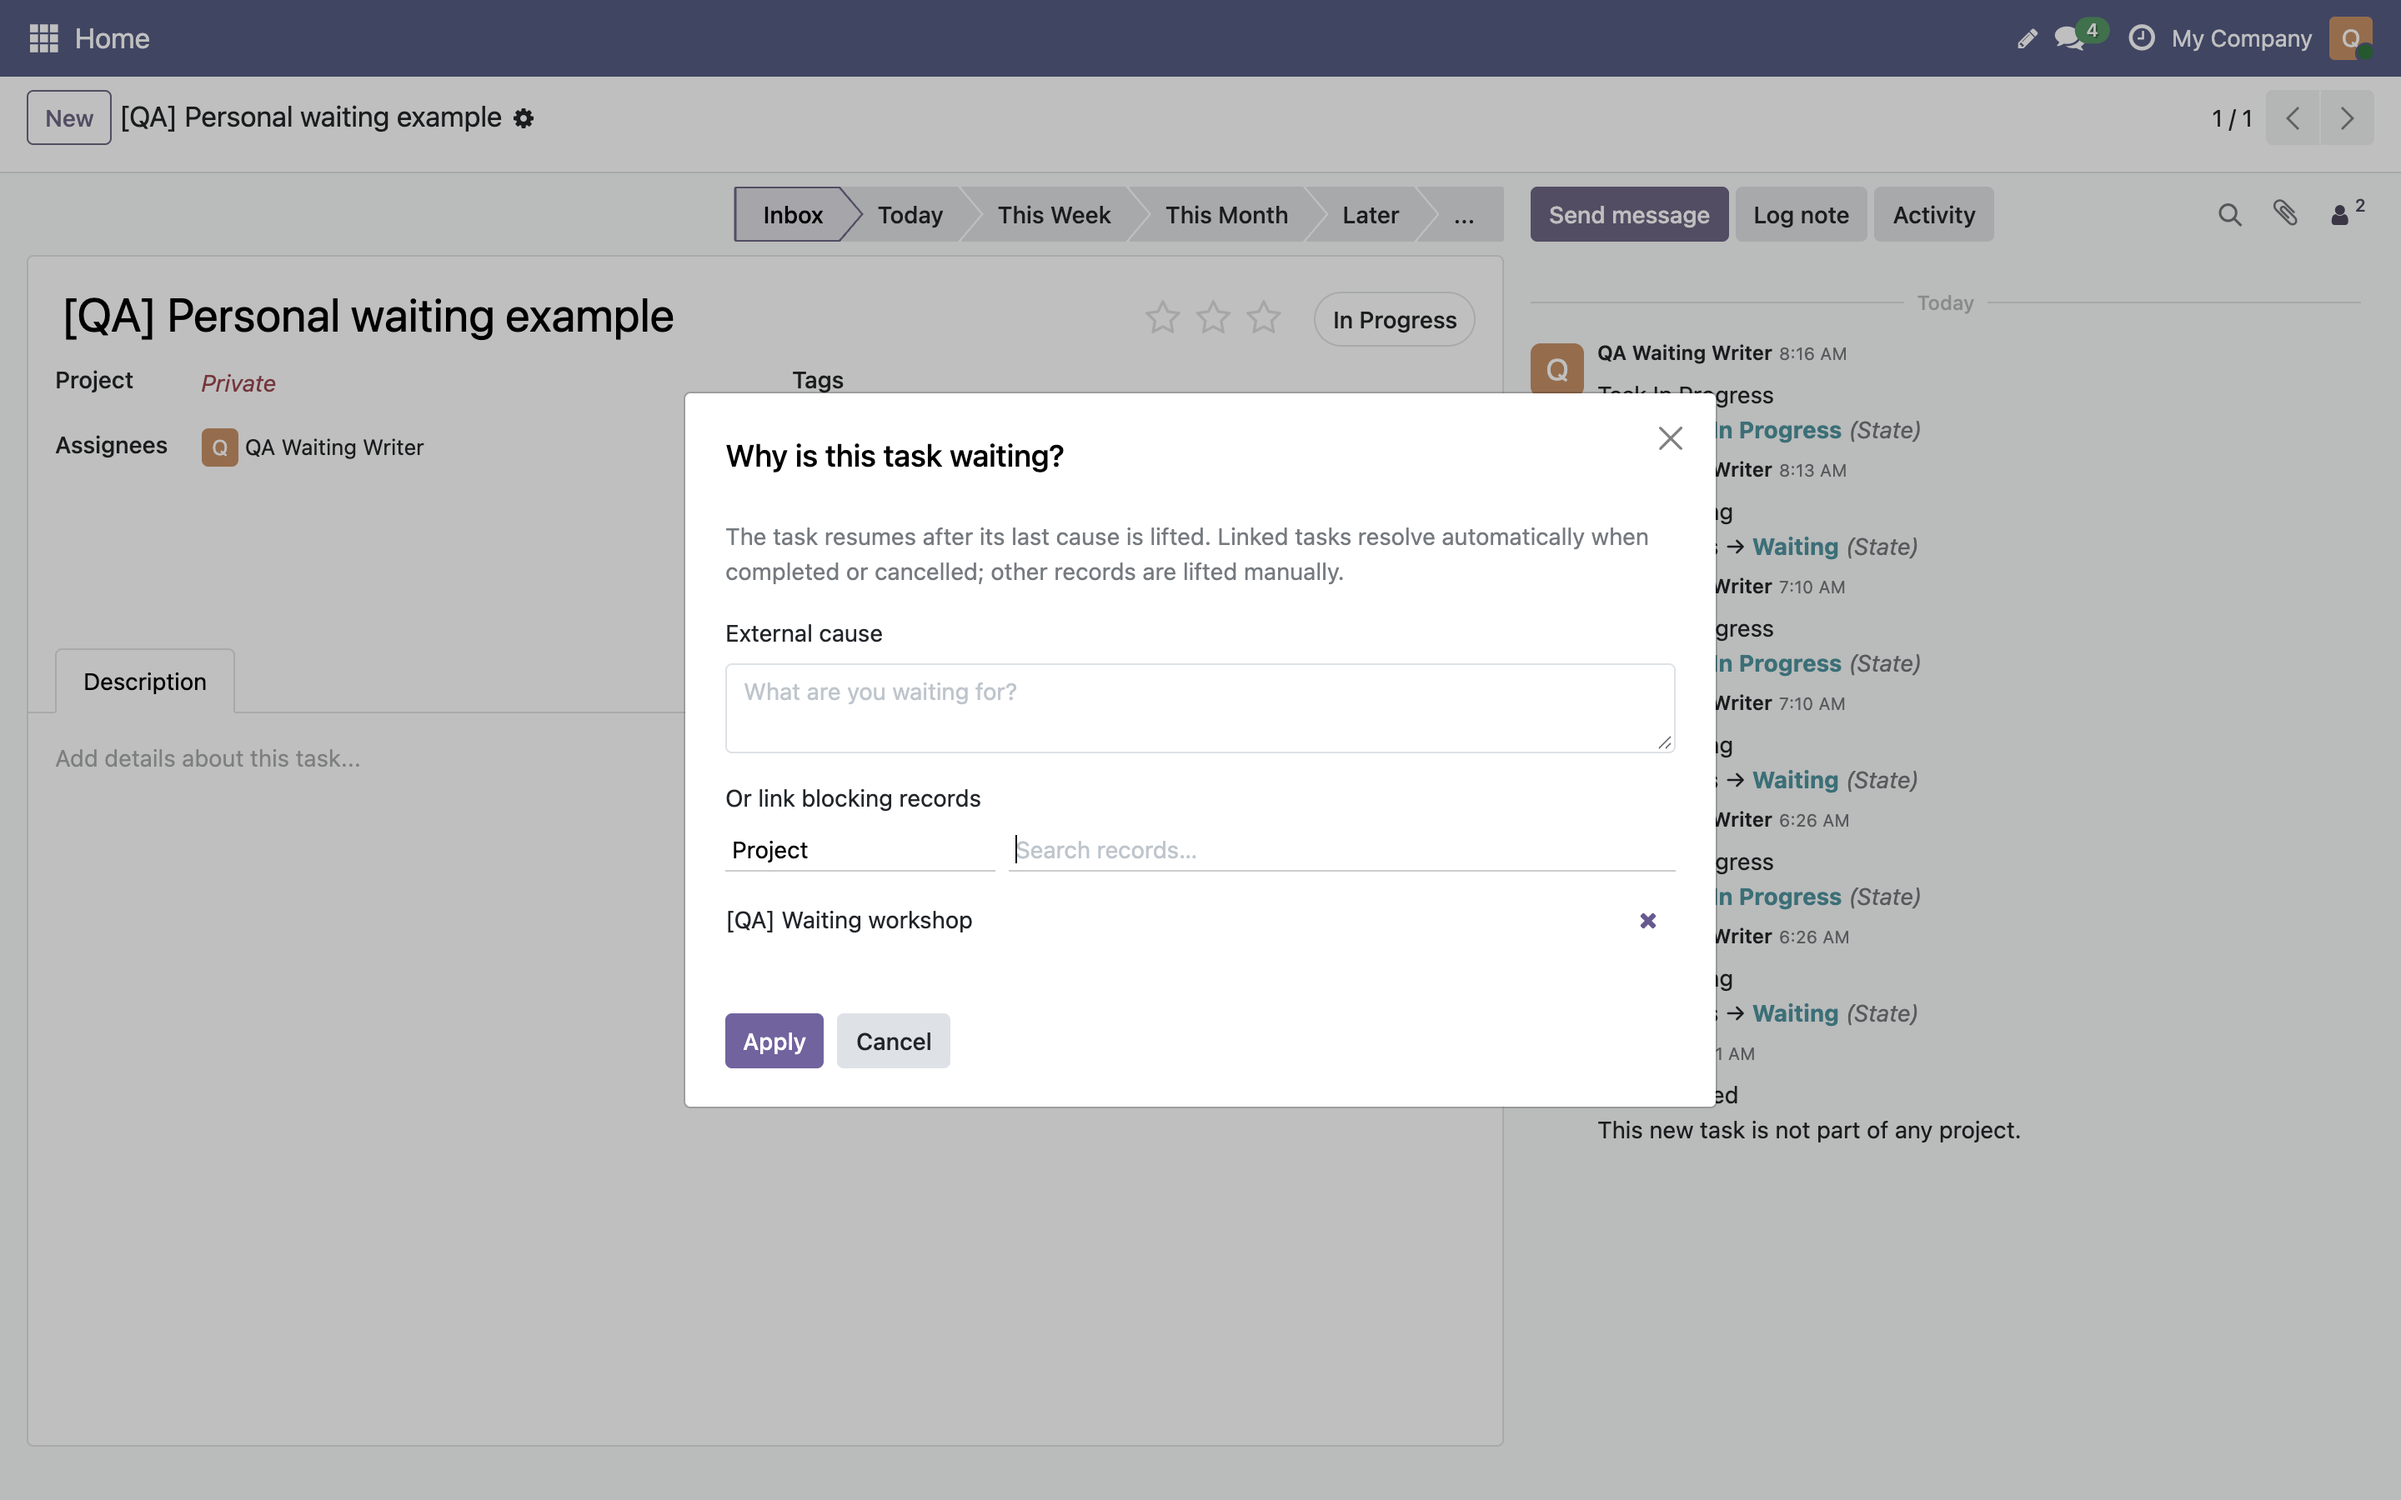
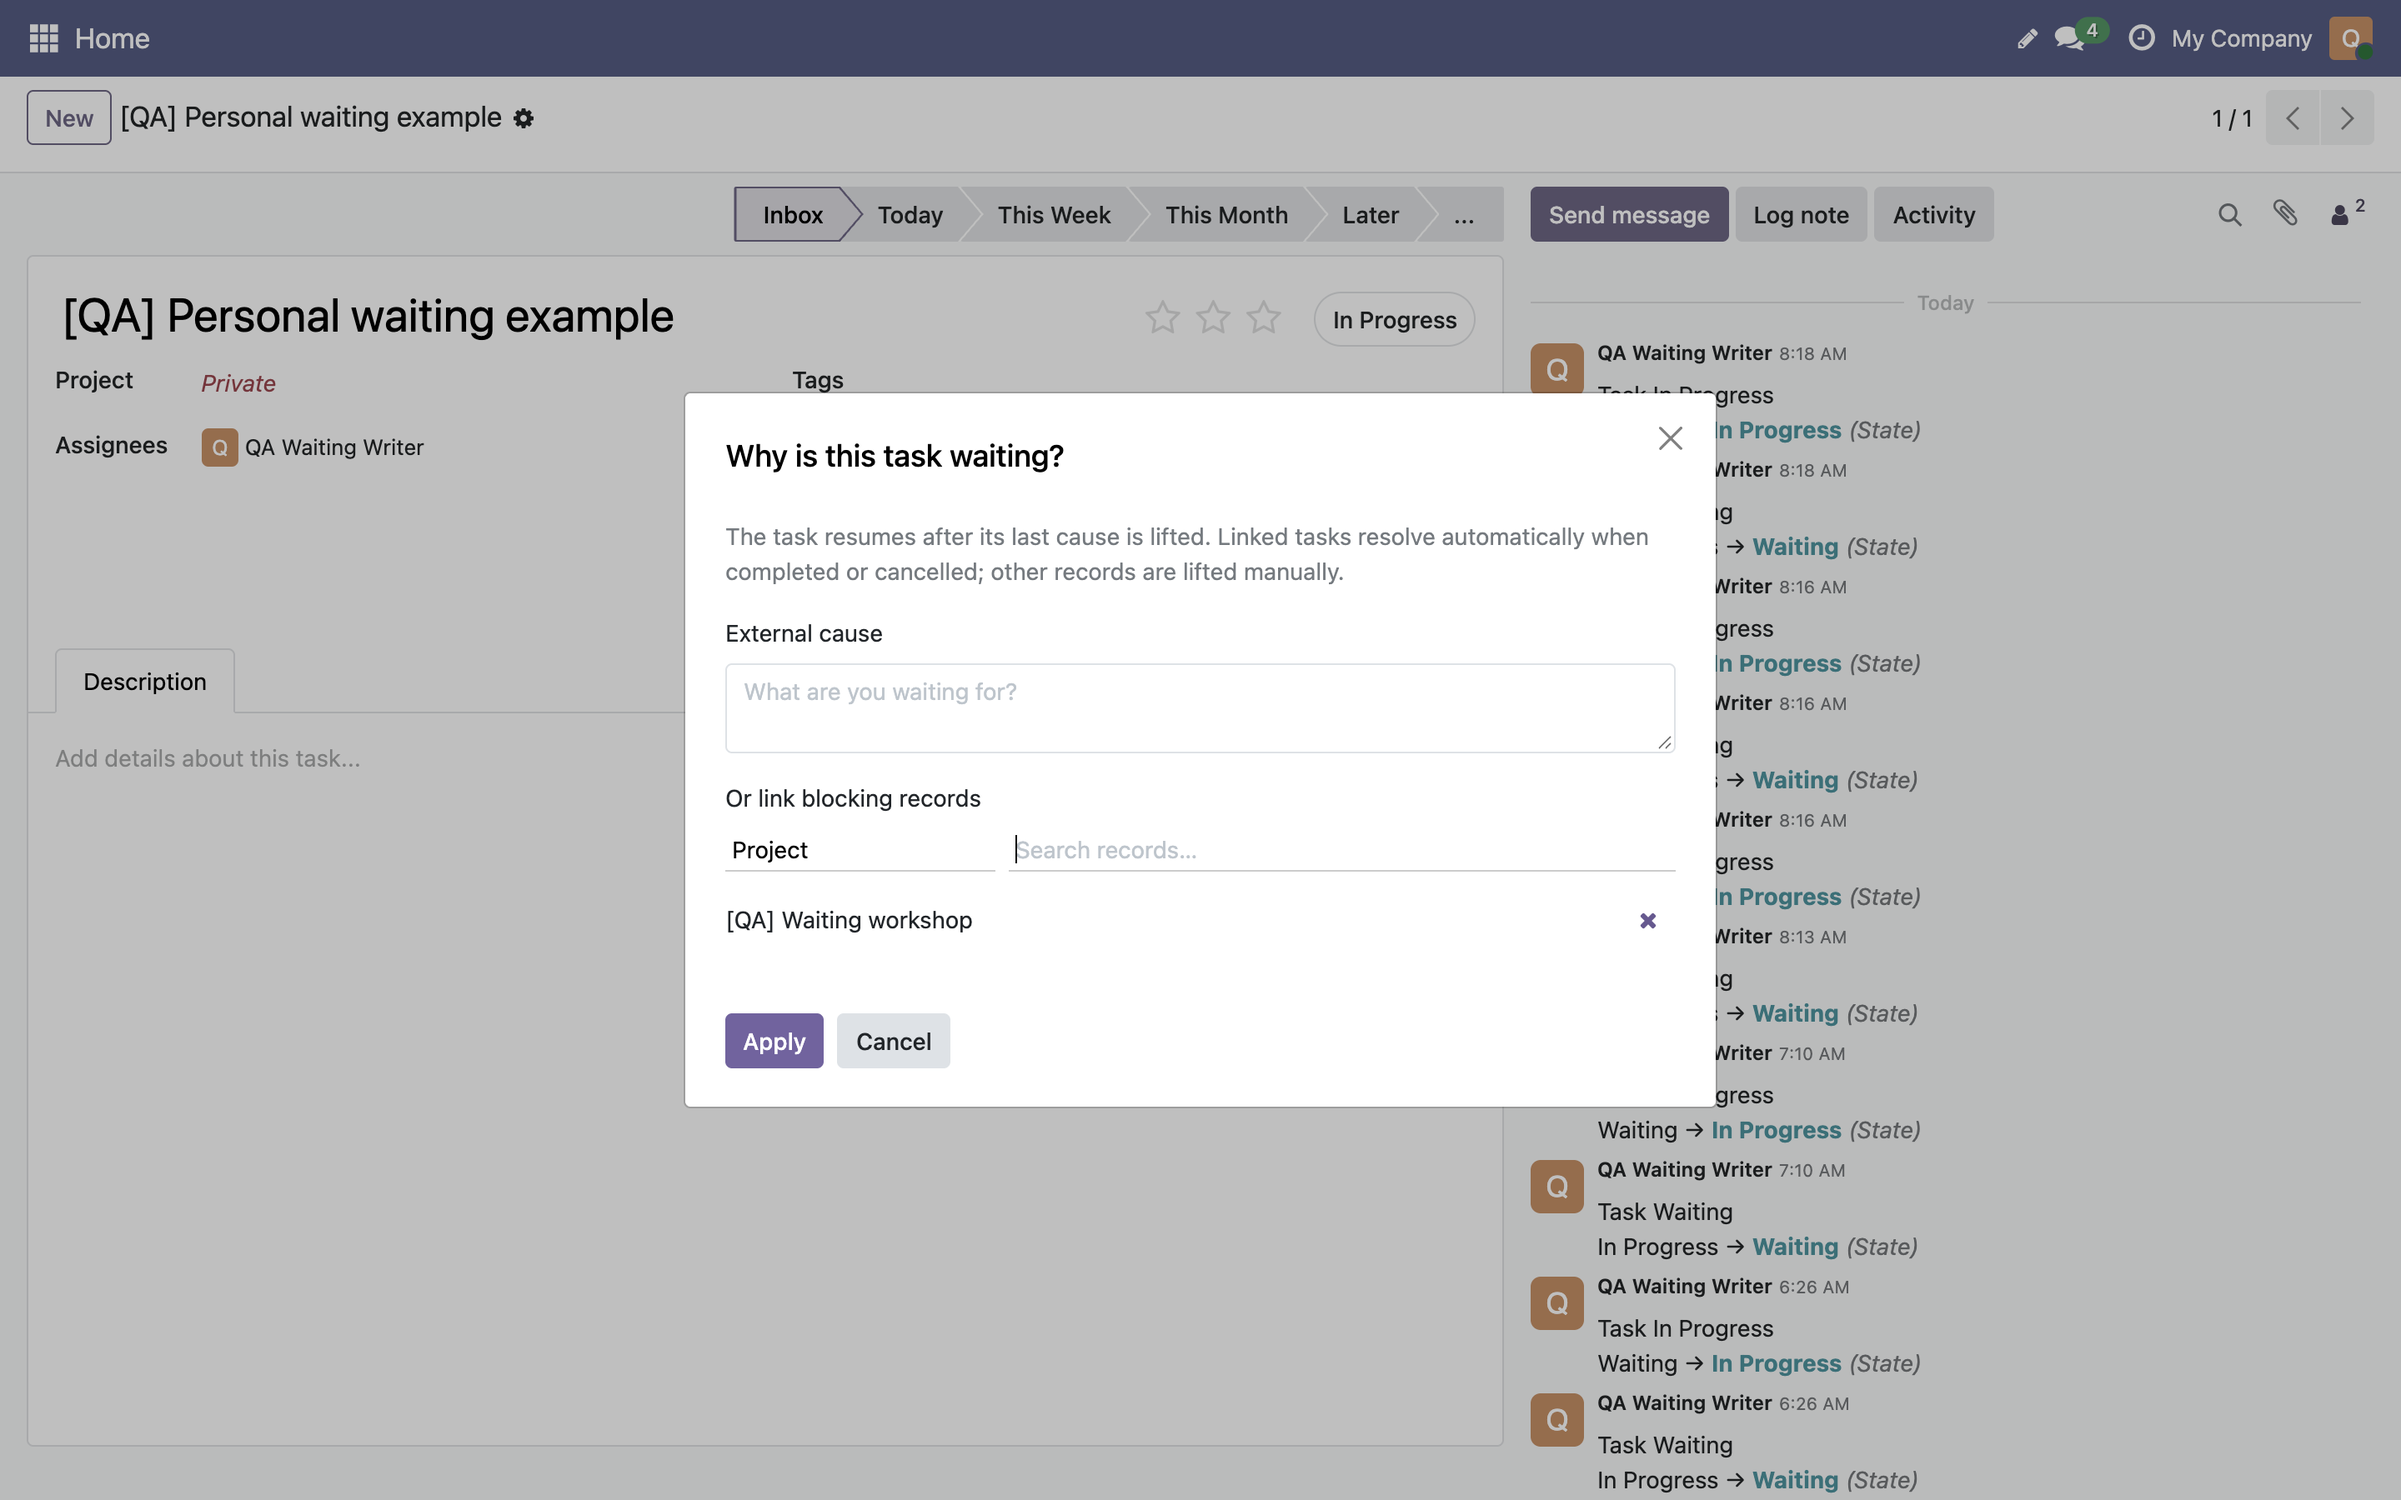
docs(projects): Revalidate Waiting captures after routing review
Publish the three recaptured synthetic states accepted by the lead. Keep the three pixel-identical files and bind all six journeys to the final tested product source.

Validation:
- Six final PNGs personally reviewed by owner and lead; three pixel-identical to approved predecessors; only IHDR/IDAT/IEND chunks. Native desktop/mobile and access-change journeys pass on source6de352b34170.

AI-generated commit

Changed region(s): [[0.625, 0.6844, 0.8438, 0.9956], [0.75, 0.5289, 0.7812, 0.56]]

diff --git a/README.md b/README.md
@@ -1,6 +1,7 @@
 # Explained Task Waiting — synthetic QA
 
-Captured 27 November 2026 from final product source `e0651631a895f200a2e5e197cce515e4149749fe`.
+Captured and revalidated 27 November 2026 against final product source `6de352b34170c4b30bde9d79b170bbd0229615ac`.
+The three unchanged native Project/mobile/Kanban files are pixel-identical to the earlier `e0651631a895f200a2e5e197cce515e4149749fe` captures and were retained. Cause selection, withdrawn reference and final resumption were recaptured after the routing correction; visible fixture history/focus differs. All six final images and metadata were personally accepted by the lead before publication.
 The actor is an ordinary Project user. All records, names and messages are disposable synthetic fixtures.
 Desktop viewport: 1440×900, DPR2. Mobile viewport: 390×844, DPR3. Normal product assets were used.
 
